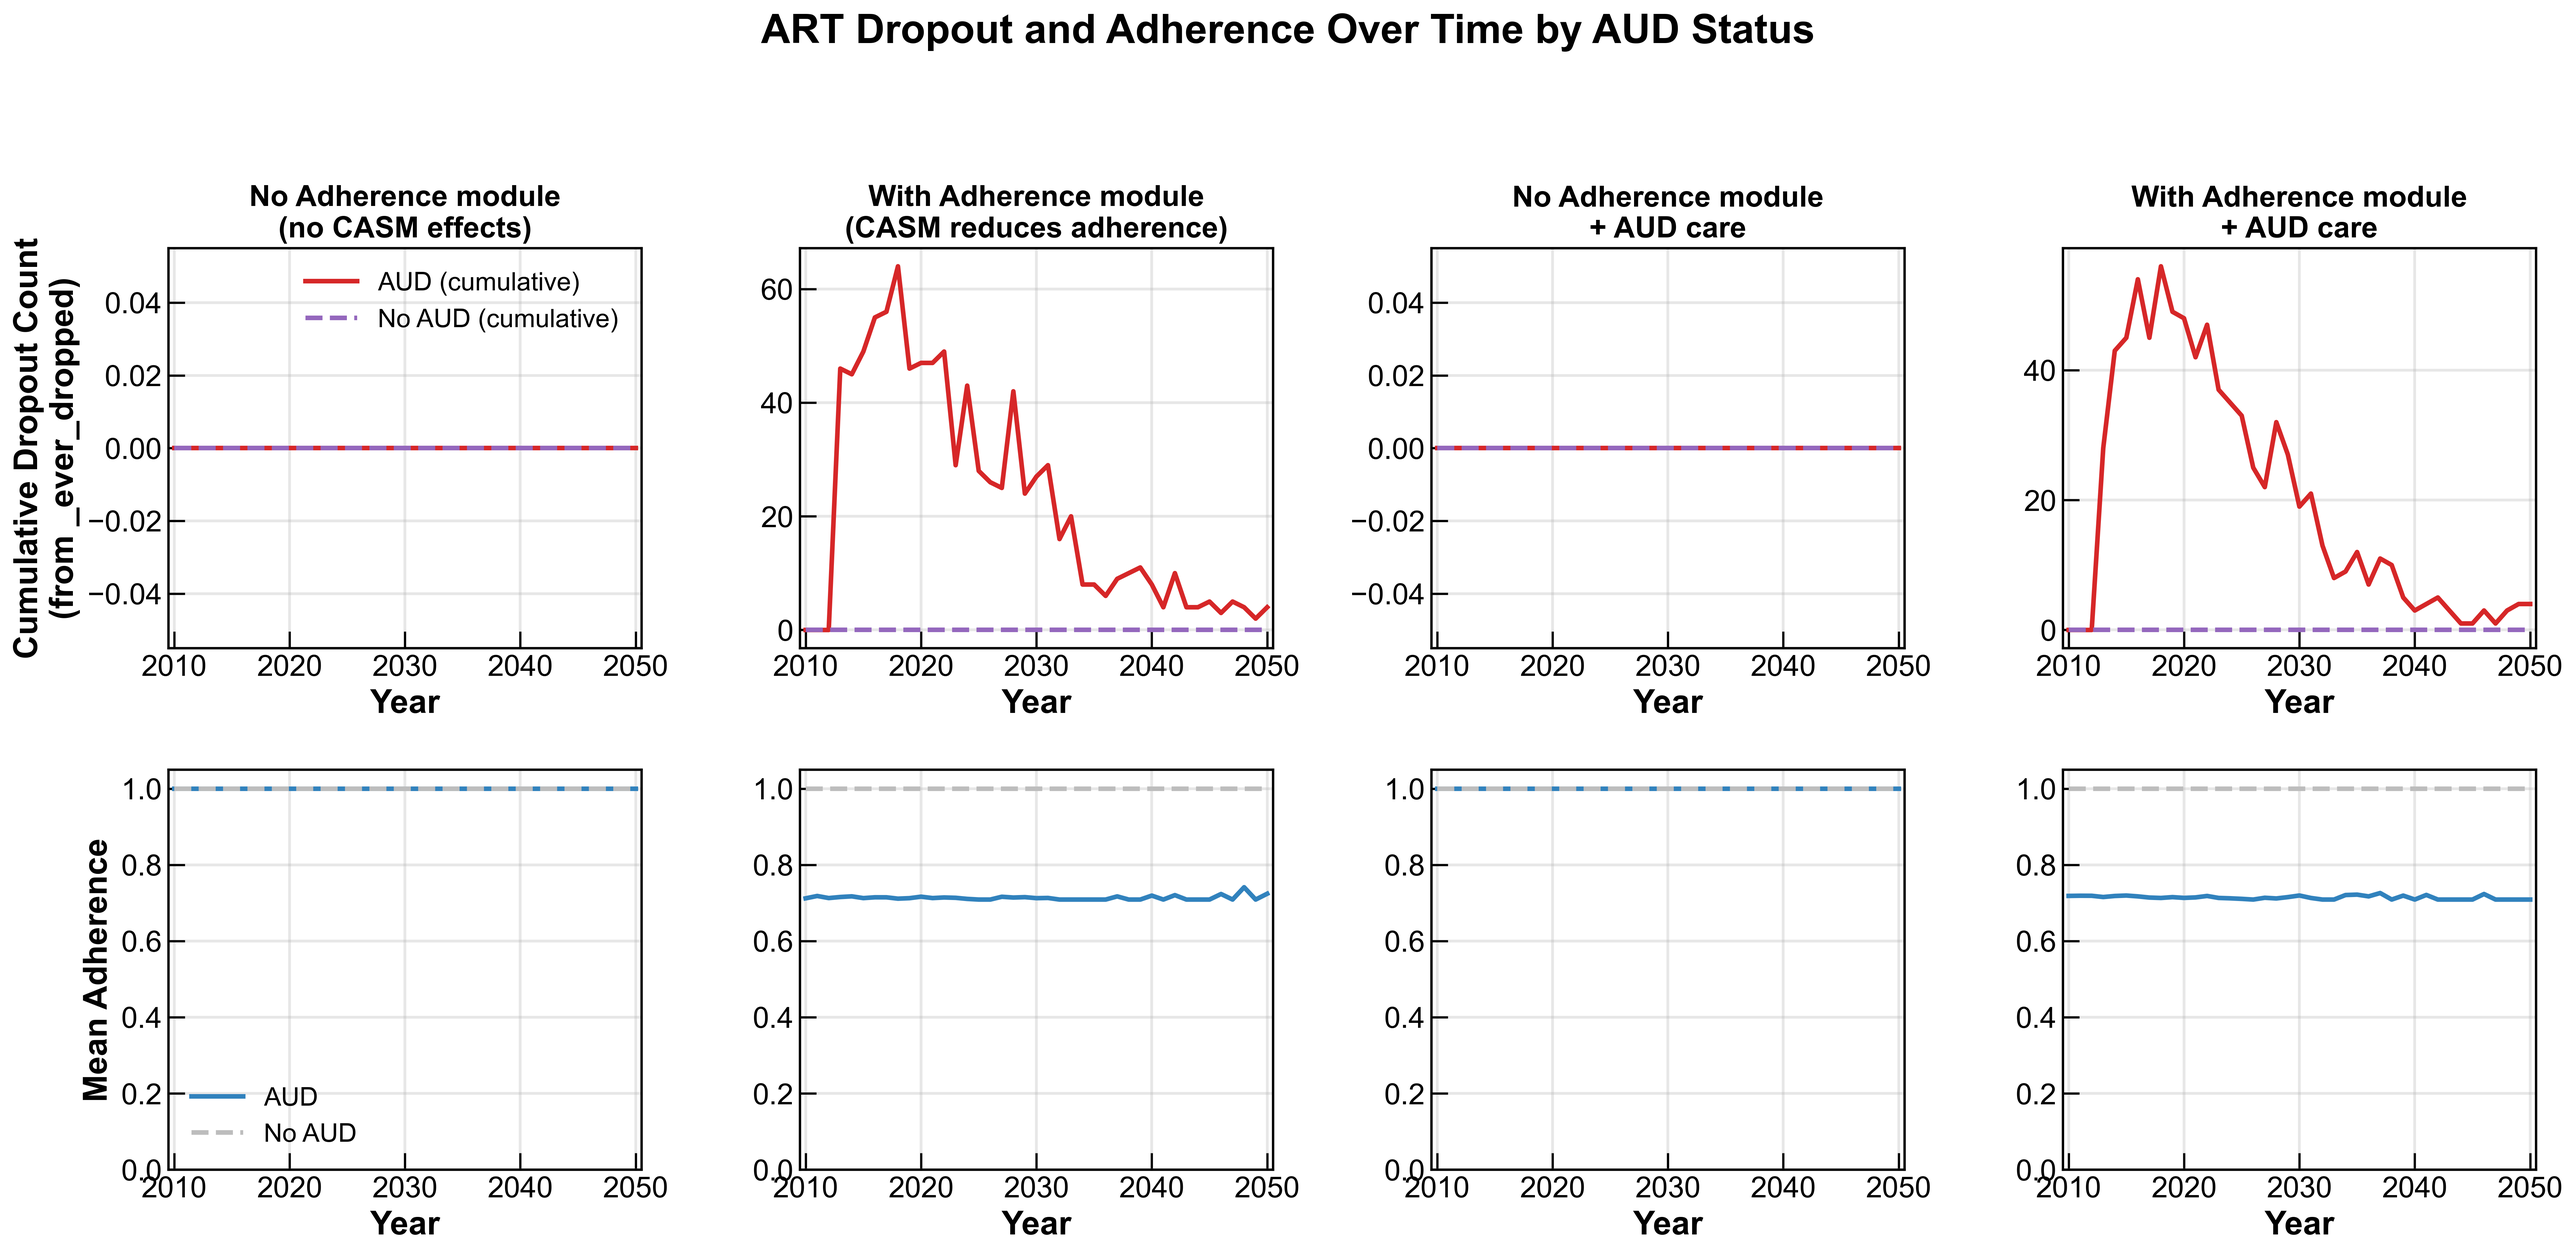
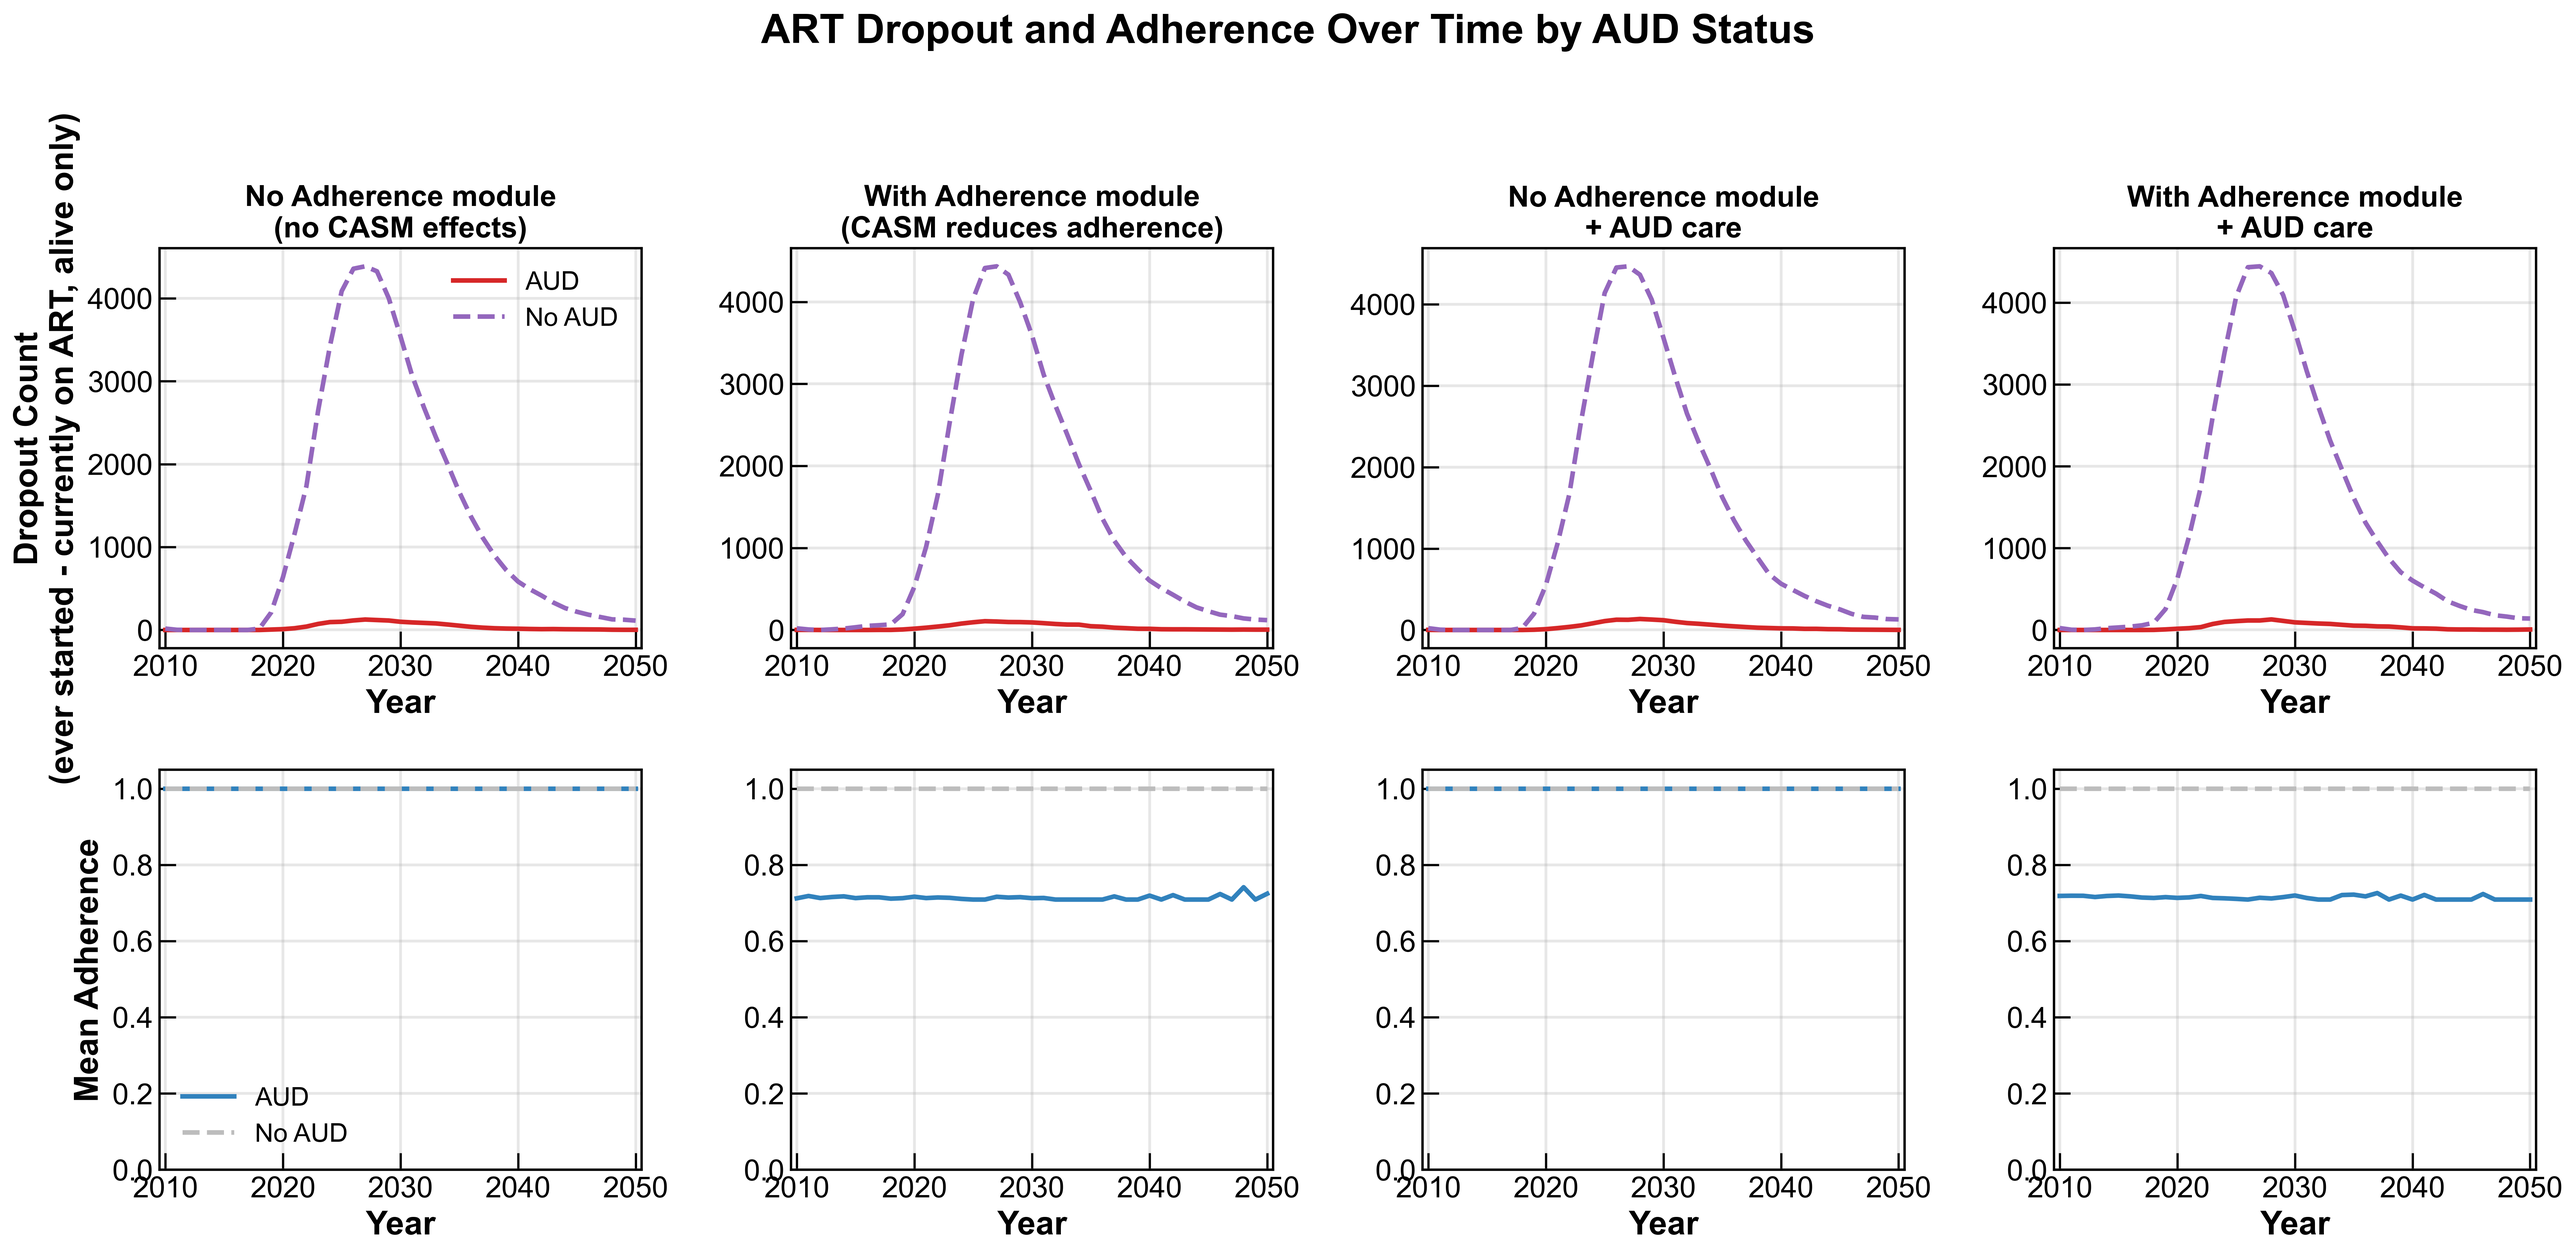
dropout weird

diff --git a/mighti/temp_fig.py b/mighti/temp_fig.py
@@ -189,8 +189,8 @@ class DropoutAdherenceAnalyzer(ss.Analyzer):
             ss.Result("year", label="Year", dtype=float),
             ss.Result("aud_dropout_count", label="AUD current dropout count (ever started - currently on)", dtype=int),
             ss.Result("noaud_dropout_count", label="No-AUD current dropout count (ever started - currently on)", dtype=int),
-            ss.Result("aud_cumulative_dropout", label="AUD cumulative dropout count (from _ever_dropped)", dtype=int),
-            ss.Result("noaud_cumulative_dropout", label="No-AUD cumulative dropout count (from _ever_dropped)", dtype=int),
+            ss.Result("aud_cumulative_dropout", label="AUD cumulative dropout count (ever started - currently on, includes all sources)", dtype=int),
+            ss.Result("noaud_cumulative_dropout", label="No-AUD cumulative dropout count (ever started - currently on, includes all sources)", dtype=int),
             ss.Result("aud_new_dropouts", label="AUD new dropouts this timestep", dtype=int),
             ss.Result("noaud_new_dropouts", label="No-AUD new dropouts this timestep", dtype=int),
             ss.Result("aud_mean_adherence", label="AUD mean adherence", dtype=float),
@@ -251,7 +251,7 @@ class DropoutAdherenceAnalyzer(ss.Analyzer):
         noaud_dropout = max(0, noaud_ever_started - noaud_on_art)
         
         # Get cumulative dropout count from ARTAdherenceDisruptor connector
-        # This tracks who has EVER dropped out (regardless of current status)
+        # This tracks who has EVER dropped out via ARTAdherenceDisruptor (regardless of current status)
         art_dropout_connector = None
         if hasattr(sim, 'connectors'):
             if isinstance(sim.connectors, dict):
@@ -267,10 +267,9 @@ class DropoutAdherenceAnalyzer(ss.Analyzer):
                             break
         
         # Count cumulative dropouts from _ever_dropped set (alive only)
-        aud_cumulative_dropout = 0
-        noaud_cumulative_dropout = 0
-        aud_new_dropouts = 0
-        noaud_new_dropouts = 0
+        # This tracks dropouts specifically from ARTAdherenceDisruptor
+        aud_cumulative_dropout_from_disruptor = 0
+        noaud_cumulative_dropout_from_disruptor = 0
         
         if art_dropout_connector is not None and hasattr(art_dropout_connector, "_ever_dropped"):
             ever_dropped = art_dropout_connector._ever_dropped
@@ -279,18 +278,24 @@ class DropoutAdherenceAnalyzer(ss.Analyzer):
                 if uid < len(alive) and alive[uid]:
                     if uid < len(aud_affected):
                         if aud_affected[uid]:
-                            aud_cumulative_dropout += 1
+                            aud_cumulative_dropout_from_disruptor += 1
                         else:
-                            noaud_cumulative_dropout += 1
-            
-            # Calculate new dropouts this timestep (increase in _ever_dropped size)
-            # This is approximate - we compare current size to previous size
-            current_aud_dropped = aud_cumulative_dropout
-            current_noaud_dropped = noaud_cumulative_dropout
-            aud_new_dropouts = max(0, current_aud_dropped - self._prev_ever_dropped_size_aud)
-            noaud_new_dropouts = max(0, current_noaud_dropped - self._prev_ever_dropped_size_noaud)
-            self._prev_ever_dropped_size_aud = current_aud_dropped
-            self._prev_ever_dropped_size_noaud = current_noaud_dropped
+                            noaud_cumulative_dropout_from_disruptor += 1
+        
+        # Calculate new dropouts this timestep (increase in _ever_dropped size)
+        # This is approximate - we compare current size to previous size
+        aud_new_dropouts = max(0, aud_cumulative_dropout_from_disruptor - self._prev_ever_dropped_size_aud)
+        noaud_new_dropouts = max(0, noaud_cumulative_dropout_from_disruptor - self._prev_ever_dropped_size_noaud)
+        self._prev_ever_dropped_size_aud = aud_cumulative_dropout_from_disruptor
+        self._prev_ever_dropped_size_noaud = noaud_cumulative_dropout_from_disruptor
+        
+        # IMPORTANT: Use "current dropout" (ever started - currently on) as the cumulative dropout metric
+        # This includes ALL dropouts (from ARTAdherenceDisruptor, base STIsim ART module, or any other source)
+        # The "current dropout" represents the true cumulative number of people who have dropped out
+        # (it can decrease if people are re-added or die, but for alive people it's the best estimate)
+        # For plotting purposes, we use this as the cumulative dropout count
+        aud_cumulative_dropout = aud_dropout  # Use current dropout as cumulative (includes all sources)
+        noaud_cumulative_dropout = noaud_dropout  # Use current dropout as cumulative (includes all sources)
         
         # Calculate mean adherence (for people on ART)
         aud_adherence_mean = adherence[on_art & aud_diag & alive].mean() if (on_art & aud_diag & alive).any() else 1.0
@@ -1349,9 +1354,11 @@ def plot_dropout_and_adherence(msim, prefix="Fig7B_Dropout_Adherence", burn_in_y
             aud_adherence_plot = aud_adherence_filtered
             noaud_adherence_plot = noaud_adherence_filtered
         
-        # Plot dropout counts (row 0) - use cumulative dropout from _ever_dropped
+        # Plot dropout counts (row 0) - use cumulative dropout from analyzer
+        # The analyzer now uses "current dropout" (ever started - currently on) as cumulative,
+        # which includes ALL dropouts (from ARTAdherenceDisruptor, base STIsim ART, or any other source)
         ax_dropout = axes[0, i]
-        # Try to get cumulative dropout data, fallback to current dropout
+        # Get cumulative dropout data from analyzer (which now includes all dropouts)
         if analyzer_key in sim.results:
             res_for_cum = sim.results[analyzer_key]
             aud_cumulative_vals = res_for_cum.get("aud_cumulative_dropout")
@@ -1364,8 +1371,10 @@ def plot_dropout_and_adherence(msim, prefix="Fig7B_Dropout_Adherence", burn_in_y
             aud_cumulative = None
             noaud_cumulative = None
         
+        # Always use cumulative dropout from analyzer (which includes all dropouts)
+        # If analyzer data is not available, fall back to current dropout
         if aud_cumulative is not None and noaud_cumulative is not None and len(aud_cumulative) > 0 and len(noaud_cumulative) > 0:
-            # Use cumulative dropout (from _ever_dropped)
+            # Use cumulative dropout from analyzer (includes all sources)
             
             # Apply same filtering and averaging as dropout_plot
             aud_cumulative_filtered = aud_cumulative[mask] if len(aud_cumulative) == len(years) else aud_cumulative
@@ -1386,14 +1395,14 @@ def plot_dropout_and_adherence(msim, prefix="Fig7B_Dropout_Adherence", burn_in_y
                 noaud_cumulative_plot = noaud_cumulative_filtered
                 years_cum_plot = years_filtered
             
-            ax_dropout.plot(years_cum_plot, aud_cumulative_plot, "-", color="#d62728", label="AUD (cumulative)", linewidth=2.5)
-            ax_dropout.plot(years_cum_plot, noaud_cumulative_plot, "--", color="#9467bd", label="No AUD (cumulative)", linewidth=2.5)
-            ylabel = "Cumulative Dropout Count\n(from _ever_dropped)"
+            ax_dropout.plot(years_cum_plot, aud_cumulative_plot, "-", color="#d62728", label="AUD", linewidth=2.5)
+            ax_dropout.plot(years_cum_plot, noaud_cumulative_plot, "--", color="#9467bd", label="No AUD", linewidth=2.5)
+            ylabel = "Dropout Count\n(ever started - currently on ART, alive only)"
         else:
             # Fallback to current dropout (with note that it can decrease)
-            ax_dropout.plot(years_plot, aud_dropout_plot, "-", color="#d62728", label="AUD (current)", linewidth=2.5)
-            ax_dropout.plot(years_plot, noaud_dropout_plot, "--", color="#9467bd", label="No AUD (current)", linewidth=2.5)
-            ylabel = "Current Dropout Count\n(can decrease due to deaths/re-initiation)"
+            ax_dropout.plot(years_plot, aud_dropout_plot, "-", color="#d62728", label="AUD", linewidth=2.5)
+            ax_dropout.plot(years_plot, noaud_dropout_plot, "--", color="#9467bd", label="No AUD", linewidth=2.5)
+            ylabel = "Dropout Count\n(ever started - currently on ART, alive only)"
         
         ax_dropout.set_xlim(burn_in_year - 0.5, endyear + 0.5)
         if i == 0:
